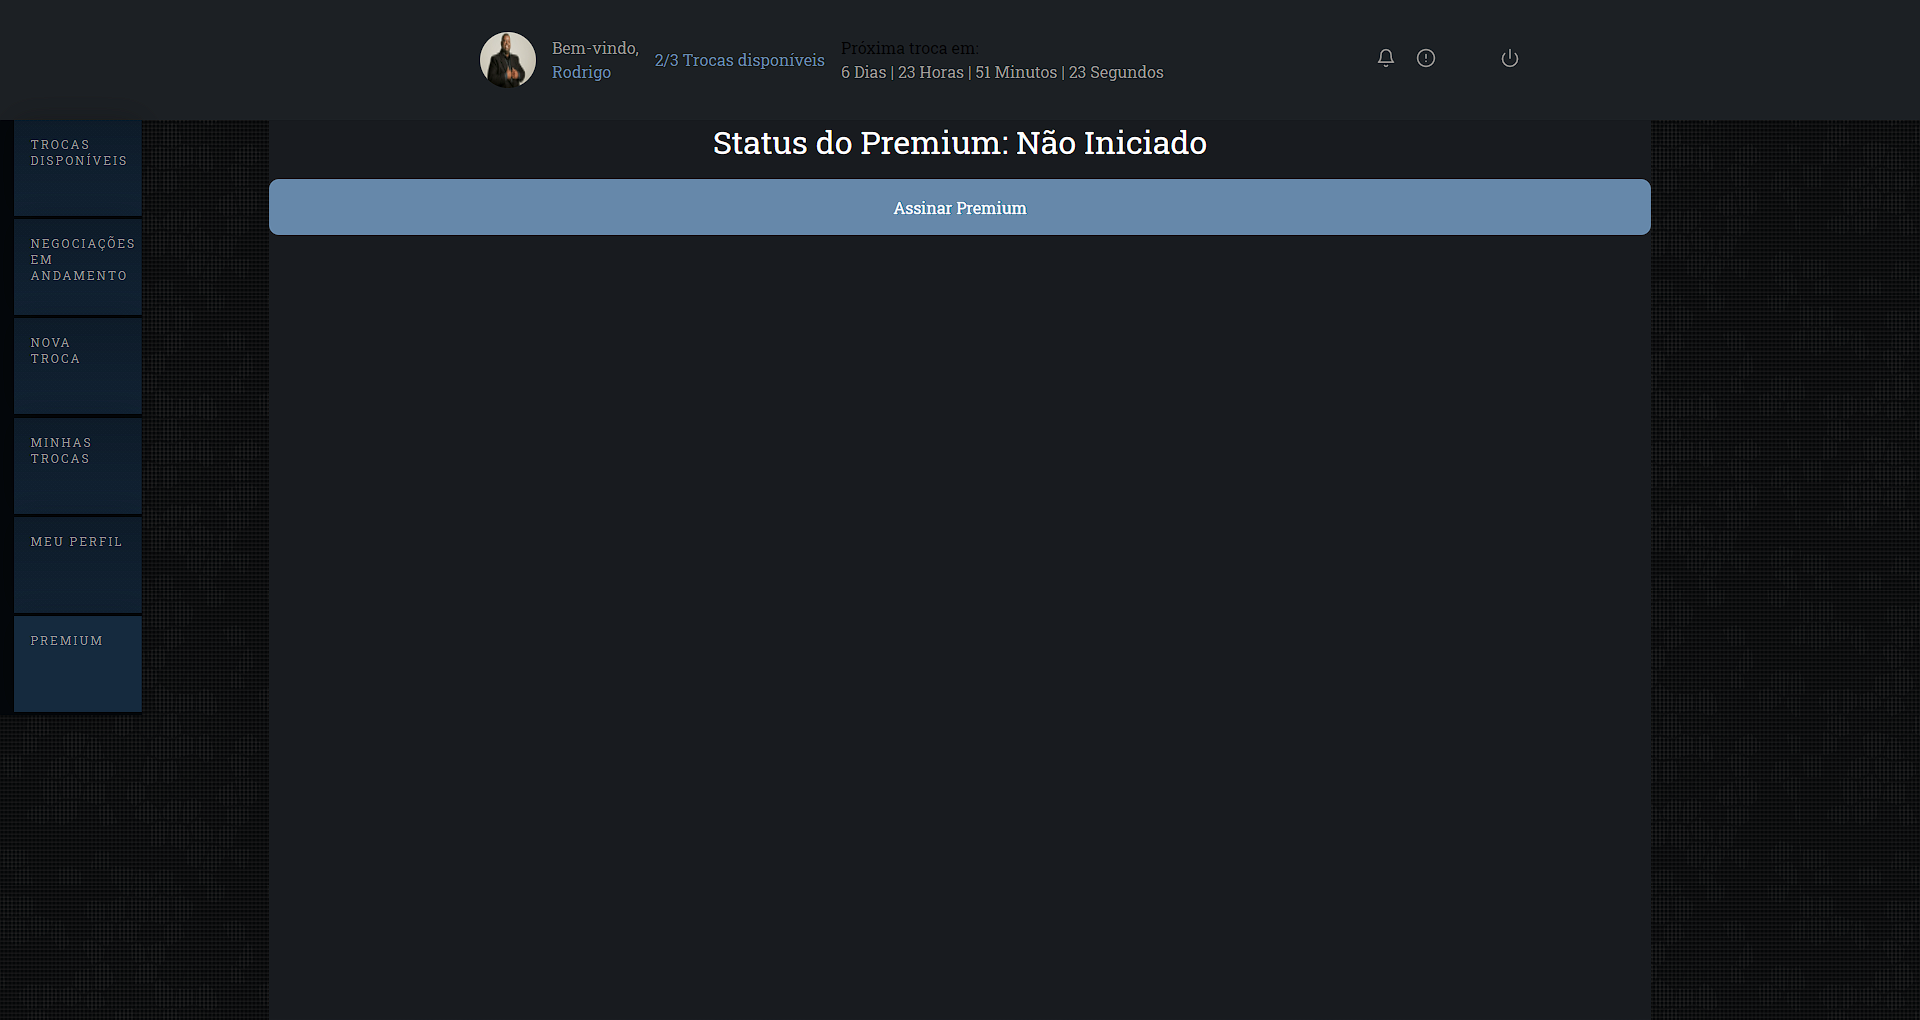
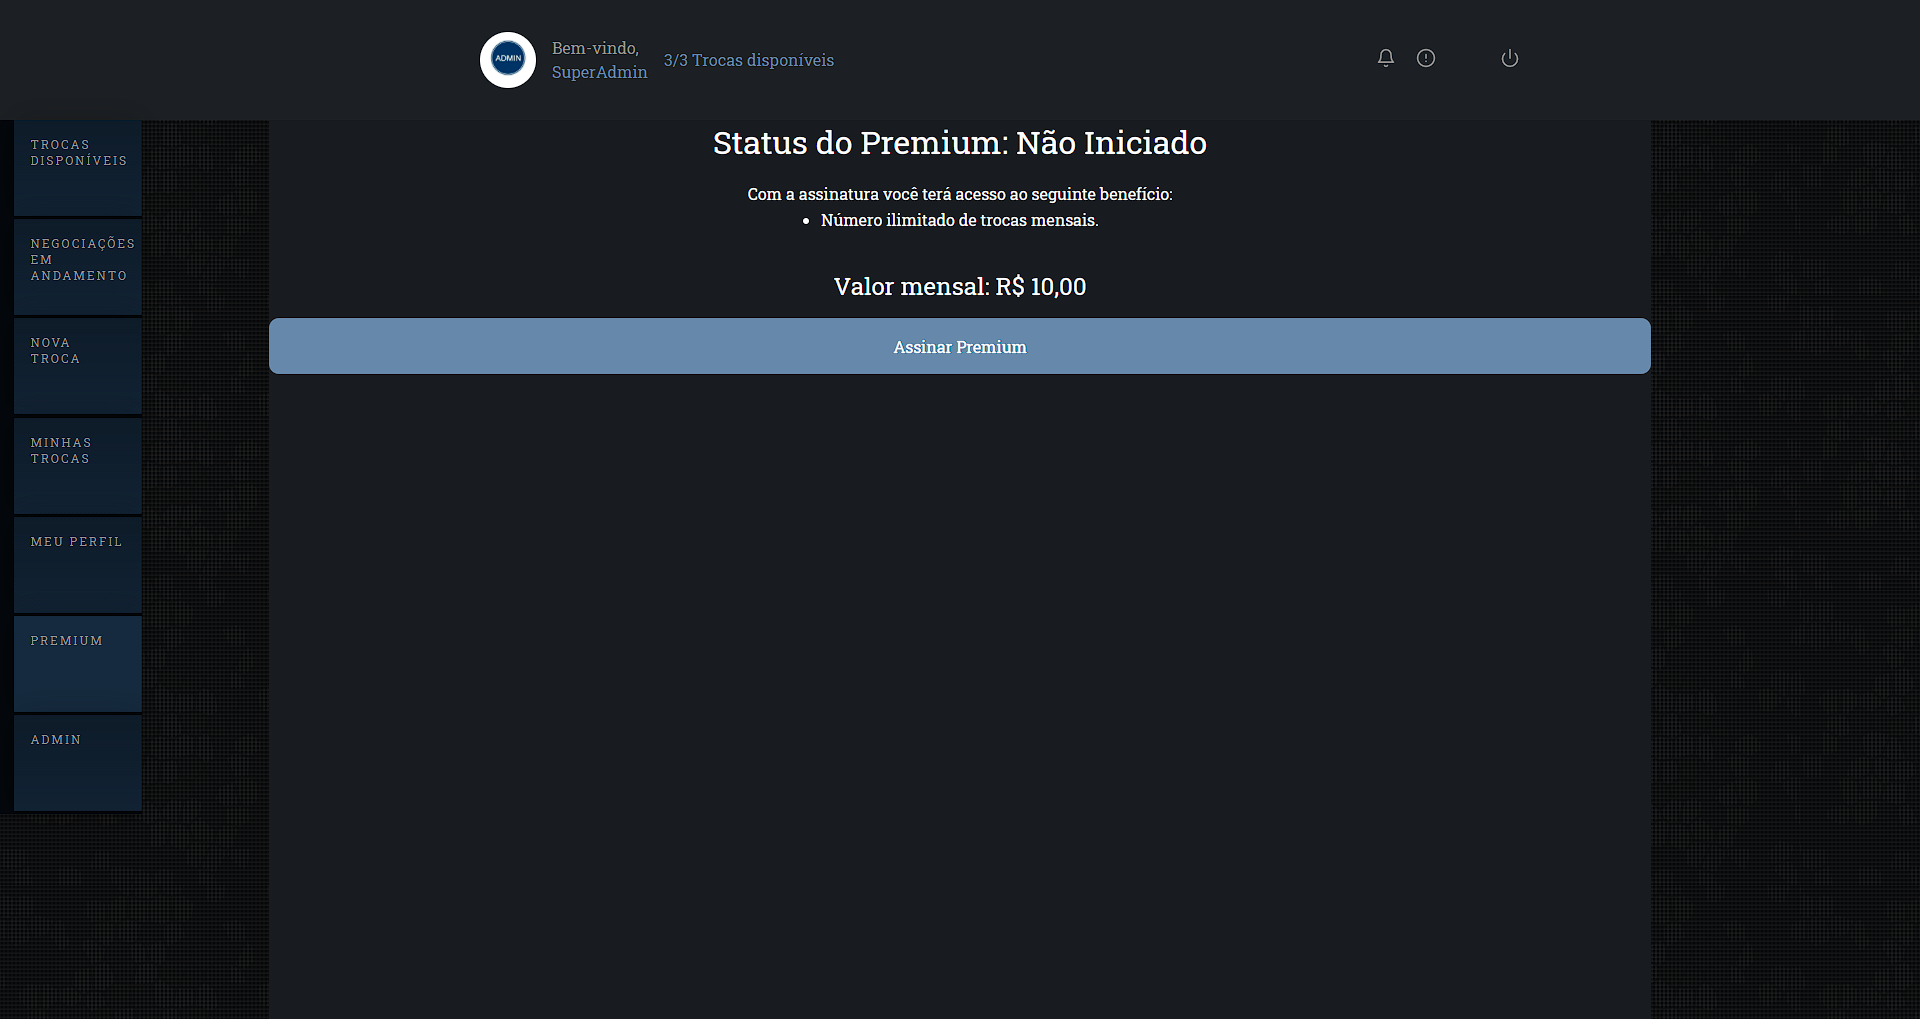
Update na página premium; Troca da cor da fonte no chat; Formatação de telefone no cadastro; Bugfix: texto 'Usuários em sala:' repetia a cada usuário em sala.

diff --git a/src/components/ModalMostrarChat/styles.ts b/src/components/ModalMostrarChat/styles.ts
@@ -2,52 +2,31 @@ import styled from 'styled-components';
 import { lighten, shade } from 'polished';
 import { Form as Unform } from '@unform/web';
 
-export const Negociacao = styled.div`
-  margin-top: 35px;
-  border-radius: 5px;
-  height : 220px;
-  background-color: #68a;
-  box-shadow: 5px 5px 10px rgba(0,0,0,0.5);
-
-  width: 92%;
-
-  display: flex;
-  justify-content: center;
-
-  h1 {
-    font-weight: 500;
-    font-size: 1.6em;
-    margin-bottom: 20px;
-  }
-
-  
-  &:hover{
-    background: ${shade(0.2, '#68a')};
-    cursor: pointer;
-  }
-`;
-
 export const Form = styled(Unform)`
   padding: 48px 40px;
   display: flex;
   flex-direction: column;
 
-  
-
   h1 {
     font-weight: 500;
     font-size: 1.6em;
+    color: #fff;
+
   }
+
   h2 {
     font-weight: 100;
     font-size: 1.3em;
     margin-bottom: 20px;
+    color: ${shade(0.2, '#fff')};
   }
 
   .usuariosEmSala{
-
+    color: #fff;
+    
     ::before{
       content: 'Usuários em sala: ';
+      
     };
 
   }

diff --git a/src/pages/Premium/index.tsx b/src/pages/Premium/index.tsx
@@ -78,6 +78,14 @@ const Premium: React.FC = () => {
           />
           <h1>Status do Premium: Não Iniciado</h1>
 
+          <p>Com a assinatura você terá acesso ao seguinte benefício:</p>
+
+          <ul>
+            <li>Número ilimitado de trocas mensais.</li>
+          </ul>
+
+          <h2>Valor mensal: R$ 10,00</h2>
+
           <Button onClick={handleAssinarPremium}>Assinar Premium</Button>
         </Content>
       </Container>
@@ -127,6 +135,7 @@ const Premium: React.FC = () => {
           setIsOpen={toggleModalAssinatura}
           />
           <h1>Status do Premium: Ativo</h1>
+
           <Button onClick={handleAlterarCartao}>Alterar cartão de crédito</Button>
           <Button onClick={handleCancelarAssinaturaPremium}>Cancelar assinatura premium</Button>
         </Content>

diff --git a/src/components/ModalMostrarChat/index.tsx b/src/components/ModalMostrarChat/index.tsx
@@ -148,12 +148,14 @@ const ModalMostrarChat: React.FC<IModalProps> = ({
       <Form ref={formRef} onSubmit={handleSubmit}>
       <h1>Negociação entre {negociacao.nomeUsuarioCriador} e {negociacao.nomeUsuarioSolicitador}</h1>
       <h2>Troca do jogo {negociacao.troca.nomeJogoDesejado} pelo {negociacao.troca.nomeJogoOfertado}</h2>
+      <p className="usuariosEmSala">
       {
         nomeDeUsuariosNaSala&&
         nomeDeUsuariosNaSala.map(nomeNaSala => (
-          <p className="usuariosEmSala" key={nomeNaSala.socketId}>{nomeNaSala.nome} </p>
+          nomeNaSala.nome + ' '
         ))
       }
+      </p>
       <div id='chat'>
       {     
         mensagens&&

diff --git a/src/hooks/auth.tsx b/src/hooks/auth.tsx
@@ -54,18 +54,6 @@ const AuthProvider: React.FC = ({ children }) => {
 
         if(token && usuarioJSON) {
             api.defaults.headers.authorization = `Bearer ${token}`;
-
-            // Redireciona o usuário para página de login caso o token tenha expirado
-            /*
-            verify(token, jwt.secret, function(err) {
-                if(err){
-                    localStorage.removeItem('@TCC:token');
-                    localStorage.removeItem('@TCC:usuario');
-
-                    return {};
-                }
-            });
-            */
            
             const usuario = JSON.parse(usuarioJSON);
 

diff --git a/src/pages/CriarConta/index.tsx b/src/pages/CriarConta/index.tsx
@@ -157,7 +157,7 @@ const CriarConta: React.FC = () => {
 
                     <Input name="nome" icon={FiItalic} placeholder="Nome"/>
 
-                    <Input name="telefone" icon={FiPhone} placeholder="Telefone"/>
+                    <Input name="telefone" type='number' icon={FiPhone} placeholder="Telefone"/>
 
                     <Select 
                         placeholder="Estado"

diff --git a/src/components/ModalAssinatura/index.tsx b/src/components/ModalAssinatura/index.tsx
@@ -160,7 +160,6 @@ const ModalAssinatura: React.FC<IModalProps> = ({
               });
             }
           })
-
           
         } catch (err){
           addToast({
@@ -169,7 +168,6 @@ const ModalAssinatura: React.FC<IModalProps> = ({
             description: 'Ocorreu um erro'
           });
         }
-
       }
 
       setIsOpen();

diff --git a/src/pages/Premium/styles.ts b/src/pages/Premium/styles.ts
@@ -16,8 +16,23 @@ export const Content = styled.div`
     background-color: #181b1f;
 
     h1{
+        margin-bottom: 20px;
+    }
+
+    h2{
+        margin-top: 40px;
+    }
+
+    p{
+        margin-bottom: 5px;    
+    }
+
+
+
+    h1, h2, p, li{
         color: #fff;
     }
+
 `;
 
 export const Form = styled.form`

diff --git a/src/components/ModalAssinatura/styles.ts b/src/components/ModalAssinatura/styles.ts
@@ -6,8 +6,6 @@ export const Form = styled(Unform)`
   display: flex;
   flex-direction: column;
 
-  
-
   h1 {
     font-weight: 600;
     font-size: 36px;
